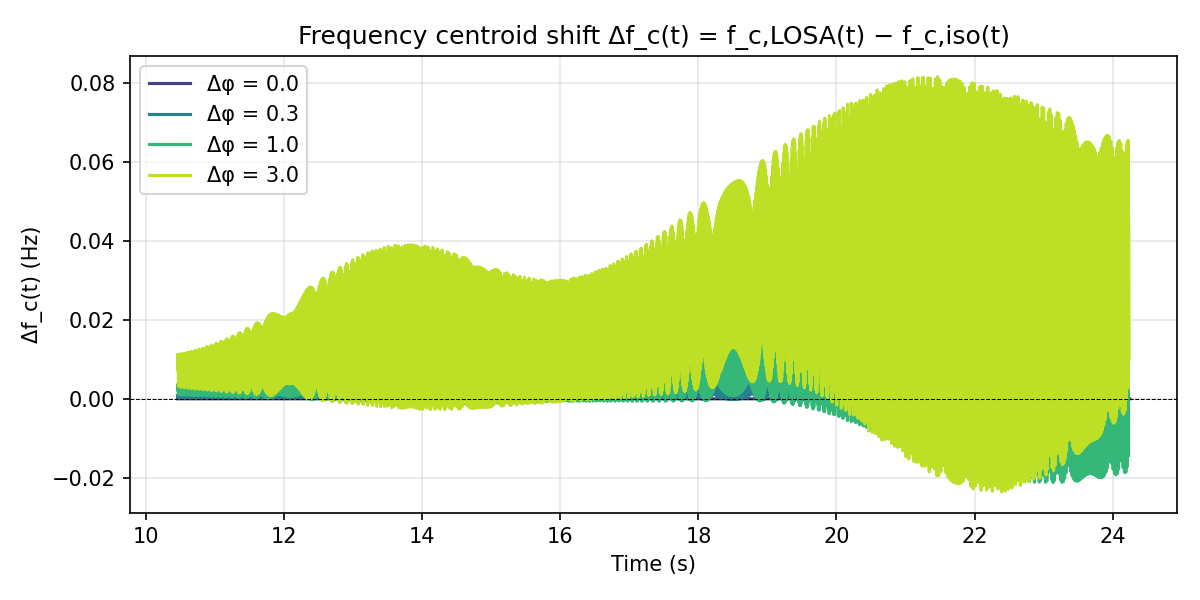
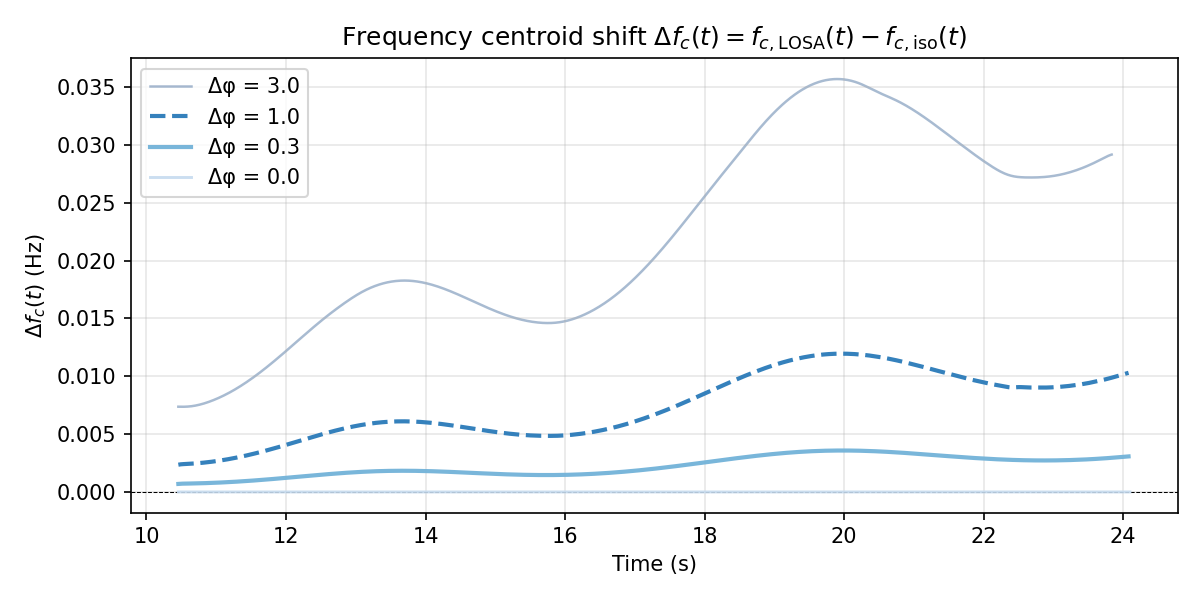
last plot good

diff --git a/experiments/observability_delta_fc_plot.py b/experiments/observability_delta_fc_plot.py
@@ -13,6 +13,7 @@ from pathlib import Path
 
 import matplotlib.pyplot as plt
 import numpy as np
+from scipy.ndimage import gaussian_filter1d
 
 ROOT = Path(__file__).resolve().parent.parent
 sys.path.insert(0, str(ROOT))
@@ -29,7 +30,15 @@ from experiments.observability_phase_metric import (
     compute_freq_centroid,
 )
 
-DELTA_PHI_PLOT = [0.0, 0.3, 1.0, 3.0]
+DELTA_PHI_PLOT = [3.0, 1.0, 0.3, 0.0]
+# Temporal smoothing (bins). 0 = no smoothing. Per-delta_phi overrides in SMOOTH_SIGMA_MAP.
+SMOOTH_SIGMA = 12
+SMOOTH_SIGMA_MAP = {3.0: 40}  # extra smoothing for large Δφ (overrides default)
+# Display-only: drop last finite points to kill vertical end-drop (like chirp_deformation)
+DROP_TAIL = 12
+# Time-based tail trim (seconds before last finite). Per-delta_phi override in TAIL_TRIM_S_MAP.
+TAIL_TRIM_S = 0.15
+TAIL_TRIM_S_MAP = {3.0: 0.4}  # extra trim for large Δφ (stronger end artifact)
 
 
 def main():
@@ -72,7 +81,20 @@ def main():
     P_iso = np.abs(C_iso) ** 2
 
     fig, ax = plt.subplots(1, 1, figsize=(8, 4))
-    colors = plt.cm.viridis(np.linspace(0.2, 0.9, len(DELTA_PHI_PLOT)))
+    # Light blue (small Δφ) → dark blue (large Δφ)
+    colors = plt.cm.Blues(np.linspace(0.95, 0.25, len(DELTA_PHI_PLOT)))
+    style_map = {
+        3.0: dict(alpha=0.35, linewidth=1.2, zorder=1),
+        1.0: dict(alpha=0.95, linewidth=2.0, zorder=2),
+        0.3: dict(alpha=0.95, linewidth=2.0, zorder=3),
+        0.0: dict(alpha=0.90, linewidth=1.4, zorder=5),  # smallest Δφ on top
+    }
+    linestyle_map = {
+        3.0: "-",
+        1.0: "--",
+        0.3: "-",
+        0.0: "-",
+    }
 
     for i, delta_phi in enumerate(DELTA_PHI_PLOT):
         if delta_phi == 0:
@@ -92,11 +114,44 @@ def main():
         f_c_losa = compute_freq_centroid(P_losa, freqs_pywt, gate)
         delta_f_c = f_c_losa - f_c_iso
 
-        ax.plot(t_sec, delta_f_c, label=f"Δφ = {delta_phi}", color=colors[i], linewidth=1.5)
+        valid_mask = np.isfinite(delta_f_c)
+        smooth_sigma = SMOOTH_SIGMA_MAP.get(float(delta_phi), SMOOTH_SIGMA)
+        if smooth_sigma > 0 and np.any(valid_mask):
+            valid_idx = np.where(valid_mask)[0]
+            i0, i1 = int(valid_idx[0]), int(valid_idx[-1])
+            # Interpolate only inside: no extrapolation into tail (prevents boundary resurrection)
+            x_in = np.arange(i0, i1 + 1)
+            vals_in = np.interp(x_in, valid_idx, delta_f_c[valid_idx])
+            smoothed = gaussian_filter1d(vals_in.astype(float), sigma=smooth_sigma, mode="nearest")
+            delta_f_c = delta_f_c.copy()
+            delta_f_c[i0 : i1 + 1] = smoothed
+            delta_f_c[~valid_mask] = np.nan  # re-mask after smoothing (prevents NaN bleed)
+
+        # Display-only: drop terminal finite points to kill vertical end-drop (like chirp_deformation)
+        tail_trim_s = TAIL_TRIM_S_MAP.get(float(delta_phi), TAIL_TRIM_S)
+        if tail_trim_s is not None and tail_trim_s > 0:
+            finite_idx = np.where(np.isfinite(delta_f_c))[0]
+            if finite_idx.size > 0:
+                t_last = np.nanmax(t_sec[np.isfinite(delta_f_c)])
+                delta_f_c[t_sec > (t_last - tail_trim_s)] = np.nan
+        elif DROP_TAIL > 0:
+            finite_idx = np.where(np.isfinite(delta_f_c))[0]
+            if finite_idx.size > DROP_TAIL:
+                delta_f_c[finite_idx[-DROP_TAIL:]] = np.nan
+
+        kw = style_map.get(float(delta_phi), {})
+        ax.plot(
+            t_sec,
+            delta_f_c,
+            label=f"Δφ = {delta_phi}",
+            color=colors[i],
+            linestyle=linestyle_map.get(float(delta_phi), "-"),
+            **kw,
+        )
 
     ax.set_xlabel("Time (s)")
-    ax.set_ylabel("Δf_c(t) (Hz)")
-    ax.set_title("Frequency centroid shift Δf_c(t) = f_c,LOSA(t) − f_c,iso(t)")
+    ax.set_ylabel(r"$\Delta f_c(t)$ (Hz)")
+    ax.set_title(r"Frequency centroid shift $\Delta f_c(t) = f_{c,\mathrm{LOSA}}(t) - f_{c,\mathrm{iso}}(t)$")
     ax.legend(loc="upper left")
     ax.grid(True, alpha=0.3)
     ax.axhline(0, color="k", linewidth=0.5, linestyle="--")

diff --git a/experiments/make_chirp_deformation_figure.py b/experiments/make_chirp_deformation_figure.py
@@ -179,8 +179,8 @@ def main():
     delta_f_c = f_c_losa - f_c_iso
 
     # --- visualization-only cleanup for Δf_c(t) ---
-    SMOOTH_W = 31  # ~0.12 s at 256 Hz. Tune 21–61 if needed.
-    PLOT_STRIDE = 4
+    SMOOTH_W = 101  # stronger smoothing than PN (Gaussian centroid has more scale jitter)
+    PLOT_STRIDE = 10  # more decimation for cleaner dashed line
     # mask first so smoothing doesn't create boundary steps
     delta_f_c_plot = delta_f_c.copy()
     delta_f_c_plot[~gate_for_plot] = np.nan
@@ -268,9 +268,8 @@ def main():
     abs_df = np.abs(delta_f_c_plot)
     finite = np.isfinite(abs_df)
     if np.any(finite):
-        df_ref = np.nanpercentile(abs_df[finite], 99.0)
-        df_ref = max(df_ref, 1e-6)
-        ax2.set_ylim(-1.2 * df_ref, 1.2 * df_ref)
+        df_max = float(np.nanmax(abs_df[finite]))
+        ax2.set_ylim(0, max(df_max * 1.1, 0.05))
     ax2.set_xlabel("Time (s)")
     ax2.set_ylabel(r"$\Delta f_c(t)$ (Hz)")
     ax2.grid(True, alpha=0.3)
